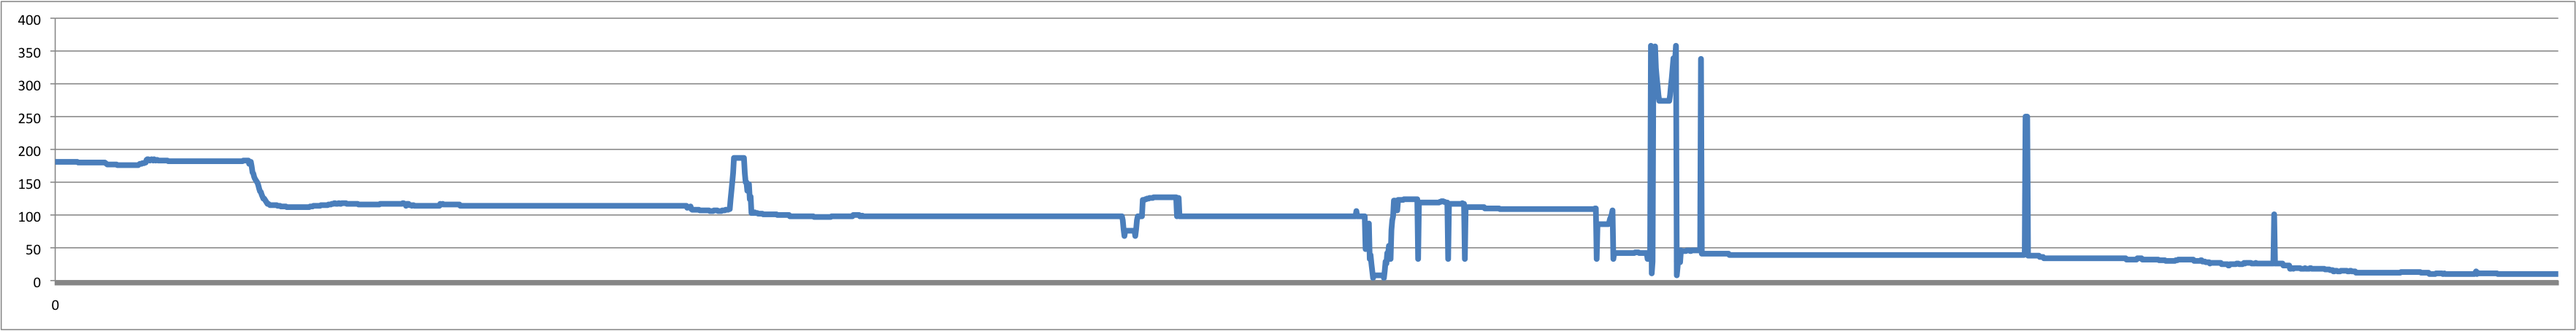
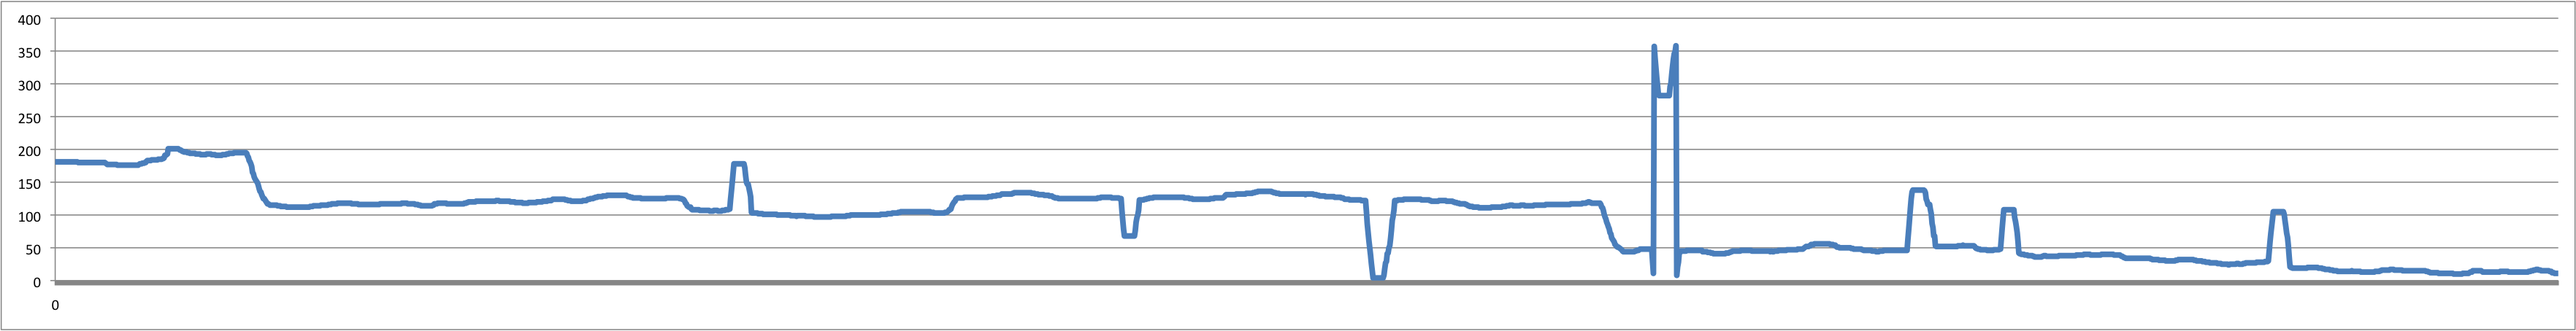
fixed error in median filter that was causing spikes

diff --git a/README.md b/README.md
@@ -32,7 +32,7 @@ Spikes have a 1 in **spikeChance** of occurring each tick. When a spike occurs t
 
 This data is all summed to produce the full simulated data as shown. An efficient filter should be able to take this simulated data and produce something resembling the smooth data it was based on.
 
-![alt text](https://raw.githubusercontent.com/benajmin/anemometer-filters/master/Graphs/Simulated%20Data.png "Graph of Simulated Data")
+t
 
 ## Filter 
 
@@ -74,7 +74,7 @@ Graphs of the data passed through the average filter are shown below. The filter
 
 ### Median Filter
 
-Graphs of the data passed through the median filter are shown below. The filter takes the median of the past **medFactor** data points. Spikes appear in the data; solutions to this are suggested below.
+Graphs of the data passed through the median filter are shown below. The filter takes the median of the past **medFactor** data points. 
 
 #### Median Filter with Factor = 25
 
@@ -83,14 +83,6 @@ Graphs of the data passed through the median filter are shown below. The filter 
 #### Median Filter with Factor = 50
 
 ![alt text](https://raw.githubusercontent.com/benajmin/anemometer-filters/master/Graphs/Median%20Filter%2050.png "Graph of Median Filtered Data Factor 50")
-
-### Combined Filters
-
-The median filter does a good job of flattening out the data with sharp changes when the wind shifts. However, it causes short spikes in the data. This can be fixed by passing the data through two filters. By passing the data through the average filter after the median filter we can take a simple moving average of a small number of points as outputted from the median filter. 
-
-#### Average of Median Filter, Average Factor = 10, Median Factor = 50
-
-![alt text](https://raw.githubusercontent.com/benajmin/anemometer-filters/master/Graphs/Med50Avg10.png "Graph of Combined Filtered Data")
 
 ## Step Detection
 
